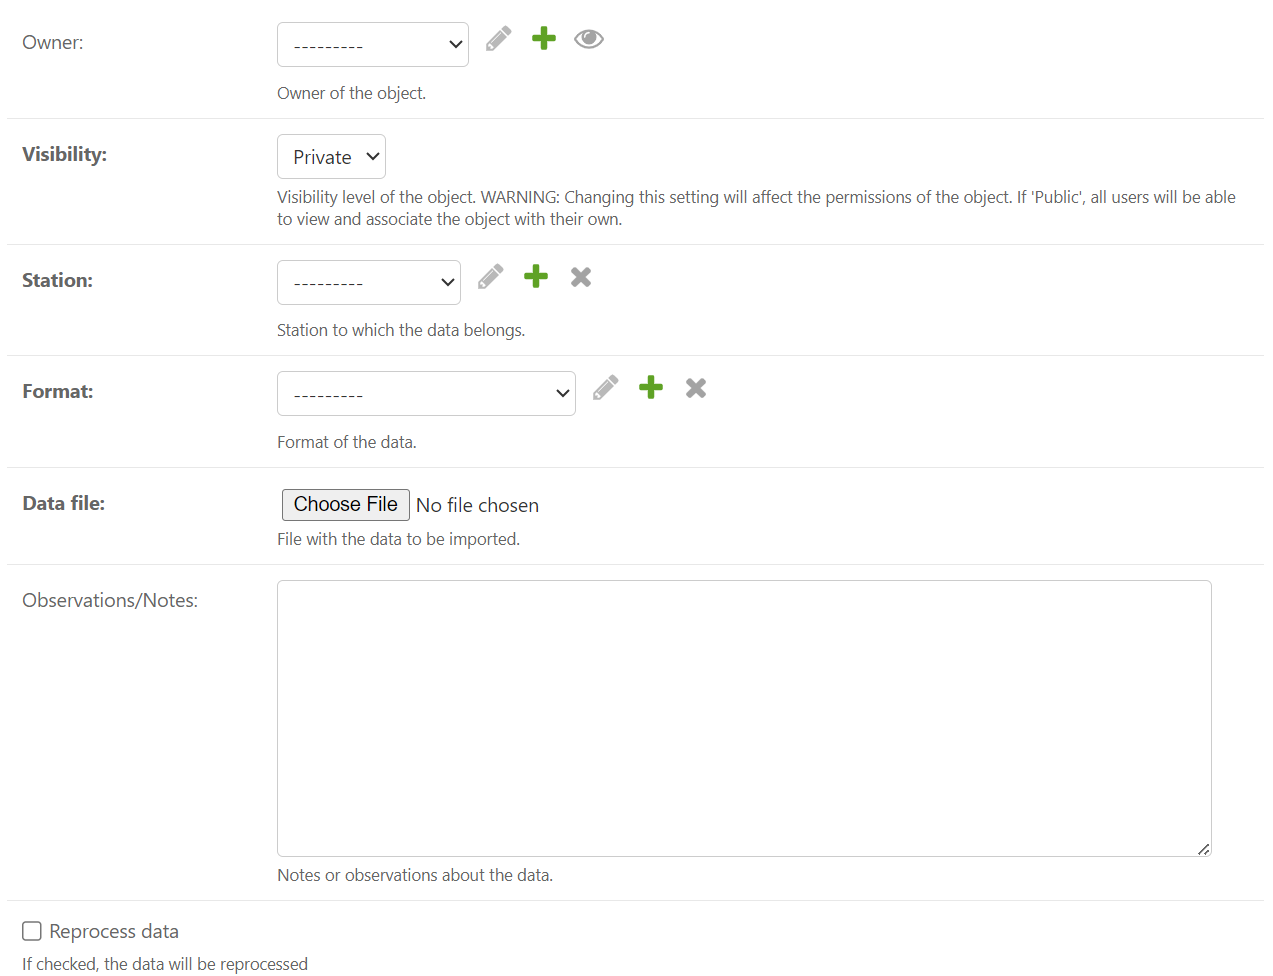
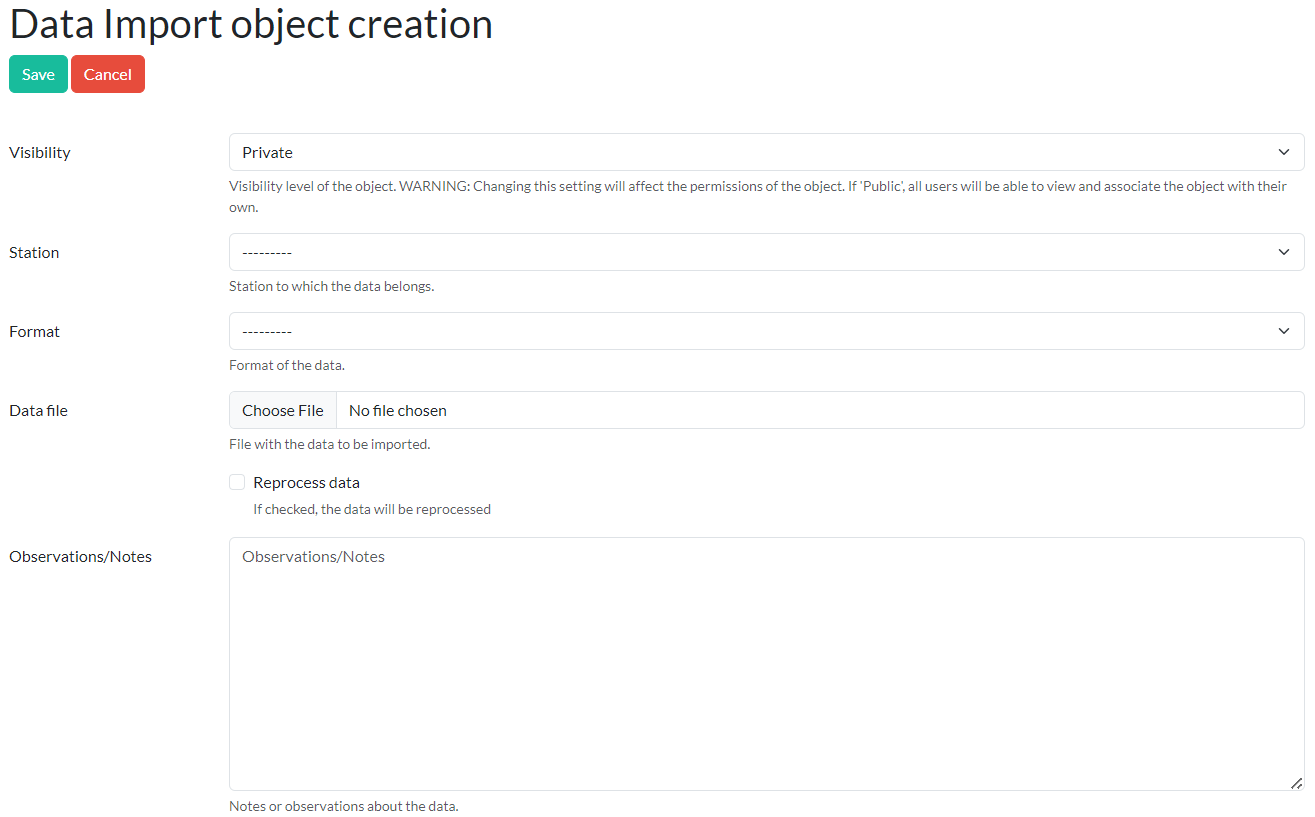
:memo: Update documentation.

diff --git a/docs/importing_data.md b/docs/importing_data.md
@@ -2,21 +2,35 @@
 
 ## Submit the data import
 
-Data import is done via Paricia Admin. Just click in `Add` or in `Add Data Import` in the corresponding screen, and a new form will open for you to complete:
+Data import is done via Paricia import listing, clicking in the `New` button at the top of the page.
+
+![Data import list](images/import_list.png)
+
+A form will open in a new page, containing several fields to be filled by the users.
 
 ![Form to import new data](images/importing_add_data.png)
 
-The form contains several fields to be filled by the users and a few others that will be populated automatically when the data to import is completed.
+### Format
 
-The Station, Format and Data File are, obviously, critical and the import will likely fail if the wrong combination is chosen - eg. if the wrong format is chosen or the data file contains variables that the Station is not supposed to have.
+The **Format** is the most important option to choose. If the format is not correct, the import process will fail - hopefully with a meaningful error message indicating what went wrong. If you are unsure about what format to choose, you can explore the options available from the menu `Formatting -> Format` and opening the formats you want to know more about.
+
+**Within the specific format page**, among the different settings like the the date and time columns, separator, etc. you will find the **Classifications**, i.e. the list of variables and the columns they will be imported from if that format is used. **Column indexes start in 0**, so a variable imported from column number 2, for example, will be imported from the 3rd column of the file. Make sure this list of classifications match the information you want to import from the data file.
+
+The following figure shows the classifications available for a particular format:
+
+![List of variables classification into columns](images/classifications.png)
+
+Clicking in each classification `id` will show you more information about that particular classification. Keep in mind you might not have permission to see the details of that classification.
+
+### Station
 
 For the Station, the user will only be able to choose those for which they have `change` permission. For the Format, the will be able to choose their own formats and those labelled as `public`.
 
-Once the form is complete, click `Save` at the bottom of the page and the import process will start.
+The station needs to be complete, i.e. it needs to have all the required fields filled, something that might not be the case if the station was imported into Paricia. A usual field missing is the `timezone` if that were the case, you will be notified when trying to save the data import. To fix it, just go to the station page - `Station -> Station` in the top menu - and update the fields that are missing.
 
 ## Process the data
 
-The data is ingested asyncronously, so the user can keep using Paricia. The status of the data import object indicate how the process is going:
+Once the form is complete, click `Save` at the top of the page and the import process will start. The data is ingested asyncronously, so the user can keep using Paricia. The status of the data import object indicate how the process is going:
 
 - **Not Queued**: The data ingestion has not started, yet.
 
